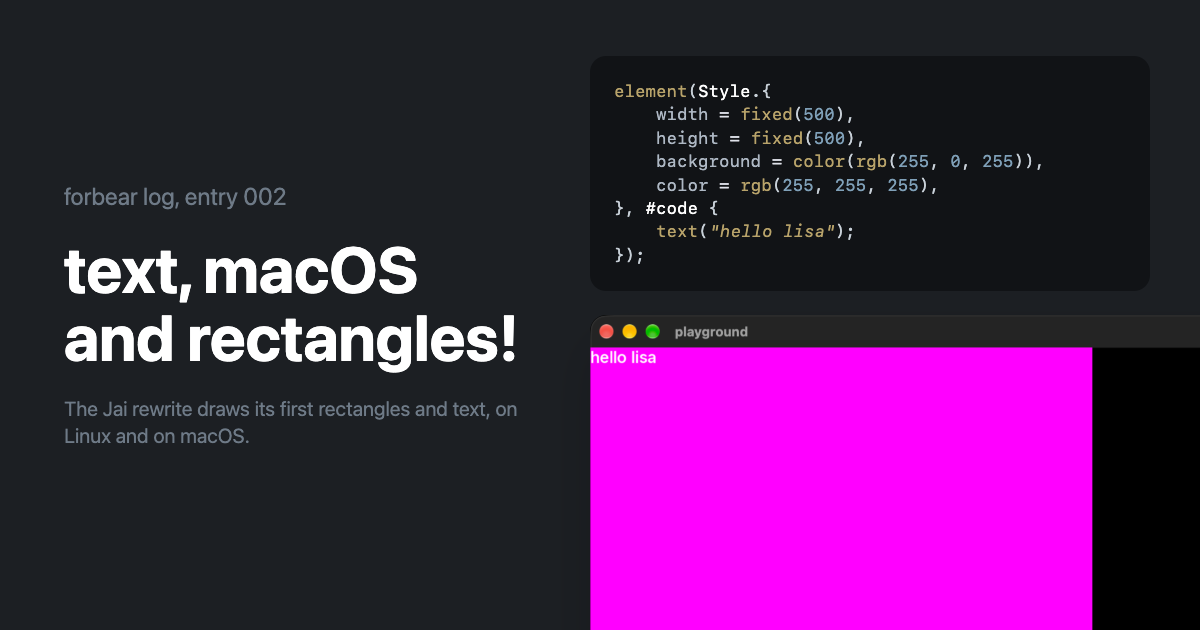
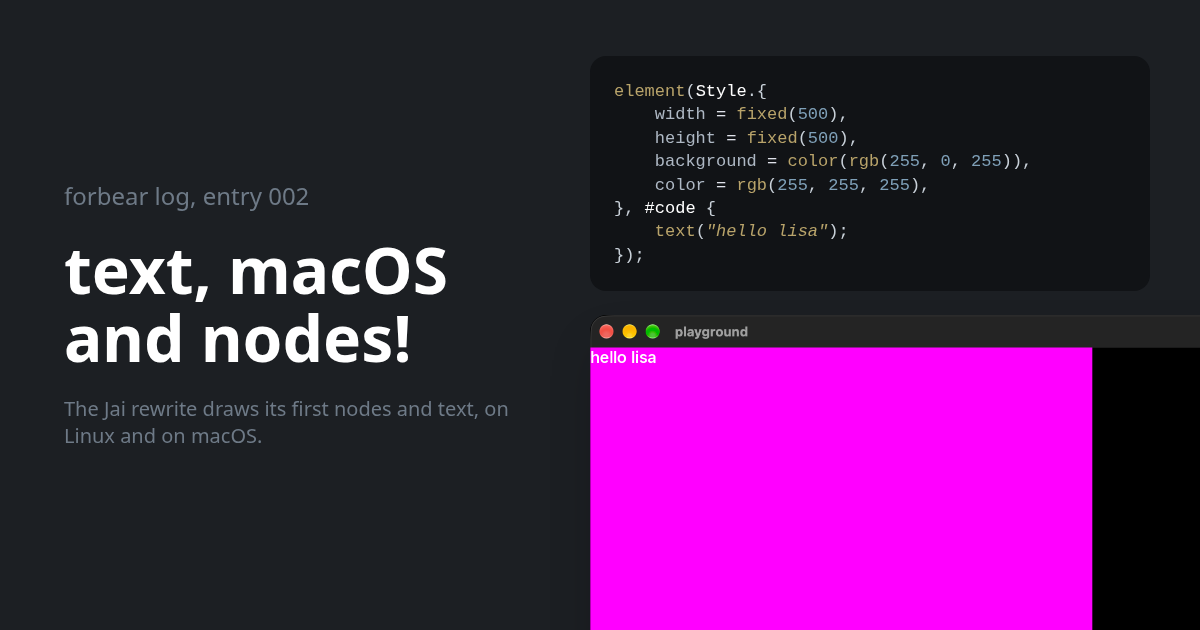
rename, fix typos, adjust some more things

diff --git a/www/log/002-text-macos-and-nodes.html b/www/log/002-text-macos-and-nodes.html
@@ -3,19 +3,19 @@
 <head>
 <meta charset="utf-8">
 <meta name="viewport" content="width=device-width, initial-scale=1">
-<title>forbear log, entry 002: text, macOS and rectangles!</title>
-<meta name="description" content="forbear in Jai draws its first rectangles and text, on Linux and on macOS.">
+<title>forbear log, entry 002: text, macOS and nodes!</title>
+<meta name="description" content="forbear in Jai draws its first nodes and text, on Linux and on macOS.">
 <meta property="og:type" content="article">
 <meta property="og:site_name" content="forbear">
-<meta property="og:url" content="https://www.forbear.dev/log/002-text-macos-and-rectangles.html">
-<meta property="og:title" content="text, macOS and rectangles!">
-<meta property="og:description" content="forbear in Jai draws its first rectangles and text, on Linux and on macOS.">
+<meta property="og:url" content="https://www.forbear.dev/log/002-text-macos-and-nodes.html">
+<meta property="og:title" content="text, macOS and nodes!">
+<meta property="og:description" content="forbear in Jai draws its first nodes and text, on Linux and on macOS.">
 <meta property="og:image" content="https://www.forbear.dev/assets/og-002.png">
 <meta property="og:image:width" content="1200">
 <meta property="og:image:height" content="630">
 <meta name="twitter:card" content="summary_large_image">
-<meta name="twitter:title" content="text, macOS and rectangles!">
-<meta name="twitter:description" content="forbear in Jai draws its first rectangles and text, on Linux and on macOS.">
+<meta name="twitter:title" content="text, macOS and nodes!">
+<meta name="twitter:description" content="forbear in Jai draws its first nodes and text, on Linux and on macOS.">
 <meta name="twitter:image" content="https://www.forbear.dev/assets/og-002.png">
 <script src="https://cdn.jsdelivr.net/npm/@tailwindcss/browser@4"></script>
 <style type="text/tailwindcss">
@@ -57,16 +57,16 @@ pre .hl-string-special-symbol { font-style: italic; color: #aeb8c4; }
 </head>
 <body>
 <main class="max-w-2xl mx-auto px-4 py-16">
-<h1>forbear log, entry 002: text, macOS and rectangles!</h1>
+<h1>forbear log, entry 002: text, macOS and nodes!</h1>
 
-<p>A week ago I wrote <a href="001-im-rewriting-everything-again.html">the first entry</a>, about rewriting forbear from Zig in Jai.</p>
+<p>A week ago I wrote <a href="001-im-rewriting-everything-again.html">the first entry</a>, about rewriting forbear from Zig in Jai. This week I've implemented node rendering, text rendering and some very basic macOS windowing.</p>
 
 <div class="flex gap-4 overflow-x-auto [scrollbar-width:none] my-6 mx-[calc(50%-50vw)] px-[calc(50vw-50%)]">
 <img src="../assets/2026-10-02-macos-window.png" alt="The forbear playground on macOS: a magenta rectangle with the text &quot;hello lisa&quot; in its top left corner" class="h-[30rem] w-auto max-w-none rounded-lg">
 <img src="../assets/2026-10-03-linux-window.png" alt="The forbear playground on Linux under Hyprland: the same magenta rectangle with &quot;hello lisa&quot; in its top left corner" class="h-[30rem] w-auto max-w-none rounded-lg">
 </div>
 
-<h2>Rectangles</h2>
+<h2>Nodes</h2>
 
 <p>This is the whole playground app right now:</p>
 
@@ -118,7 +118,7 @@ forbear<span class="hl-punctuation-delimiter">:</span> <span class="hl-type">For
 
 <p>The children are passed as <code>#code</code>, and <code>element</code> is a macro (<code>#expand</code>), so the body runs right where it's written, with no closures and no callbacks.</p>
 
-<p>Keying works through <code>#caller_location</code>. In jai, a function can take <code>location := #caller_location</code>, which gives me the file, line and column of the call. I hash those, and a few more things around the runtime context and that's the key:</p>
+<p>Keying works through <code>#caller_location</code>. In Jai, a function can take <code>location := #caller_location</code>, which gives me the file, line and column of the call. I hash those, and a few more things around the runtime context and that's the key:</p>
 
 <pre><code><span class="hl-statement">if</span> key<span class="hl-punctuation-delimiter">.</span>count <span class="hl-operator">&gt;</span> <span class="hl-number">0</span> <span class="hl-delimiter">{</span>
     node<span class="hl-punctuation-delimiter">.</span>key <span class="hl-operator">=</span> <span class="hl-function">fnv1a_hash</span><span class="hl-delimiter">(</span>key<span class="hl-punctuation-delimiter">.</span>data<span class="hl-punctuation-delimiter">,</span> key<span class="hl-punctuation-delimiter">.</span>count<span class="hl-delimiter">)</span><span class="hl-punctuation-delimiter">;</span>
@@ -133,9 +133,9 @@ forbear<span class="hl-punctuation-delimiter">:</span> <span class="hl-type">For
 <span class="hl-delimiter">}</span>
 node<span class="hl-punctuation-delimiter">.</span>key <span class="hl-operator">=</span> <span class="hl-function">fnv1a_hash</span><span class="hl-delimiter">(</span><span class="hl-statement">cast</span><span class="hl-delimiter">(</span><span class="hl-type">u64</span><span class="hl-delimiter">)</span> context<span class="hl-punctuation-delimiter">.</span>forbear<span class="hl-punctuation-delimiter">.</span>parent_stack<span class="hl-punctuation-delimiter">.</span>count<span class="hl-punctuation-delimiter">,</span> node<span class="hl-punctuation-delimiter">.</span>key<span class="hl-delimiter">)</span><span class="hl-punctuation-delimiter">;</span></code></pre>
 
-<p>This really makes me full much safer about the long-term for this code. But, it doesn't really improve in another pain point that I had with the previous API which was with components. In the ideal world, the user can just define a function and call the function for the component, but that can't work because, in a React-like API, state needs to be tied to the component somehow which means it needs to have some real place to be. The other point is that the caller location is not enough to distinguish between different instances of the same element on differente instances of a component.</p>
+<p>This really makes me feel much safer about the long-term for this code. But, it doesn't really improve in another pain point that I had with the previous API which was with components. In the ideal world, the user can just define a function and call the function for the component, but that can't work because, in a React-like API, state needs to be tied to the component somehow which means it needs to have some real place to be. The other point is that the caller location is not enough to distinguish between different instances of the same element on different instances of a component.</p>
 
-<p>Like the previous version, nodes live in one flat array. Each node points to its parent, children and siblings by index into the flat array. This is fully based on the idea from <a href="https://youtu.be/ShSGHb65f3M?si=rBw1AylZchgbExme">this awesome interview in Wookash's Podcast with Anton Mikhailov</a></p>
+<p>Like the previous version, nodes live in one flat array. Each node points to its parent, children and siblings by index into the flat array. This is fully based on the idea from <a href="https://youtu.be/ShSGHb65f3M?si=rBw1AylZchgbExme">this awesome interview in Wookash's Podcast with Anton Mikhailov</a>.</p>
 
 <h2>Text</h2>
 
@@ -143,15 +143,15 @@ node<span class="hl-punctuation-delimiter">.</span>key <span class="hl-operator"
 
 <p>Overall, the text architecture is the same as we had in the Zig version, with the exception of the runs paradigm that I started to implement there and felt was too complicated that I still need to figure out a better alternative for.</p>
 
-<p>There are two libraries involved: <a href="https://freetype.org/">freetype</a>, <a href="https://github.com/JimmyLefevre/kb">kb_text_shape</a>. kb_text_shape is a simpler replacement for harfbuzz, which is simpler and more sane to work with. Freetype loads in the font, and kb_text_shape (also checkout <a href="https://www.youtube.com/watch?v=7Tr0ty9-yeQ&t=8s">this</a> amazing talk from the creator of this library).</p>
+<p>There are two libraries involved: <a href="https://freetype.org/">FreeType</a>, <a href="https://github.com/JimmyLefevre/kb">kb_text_shape</a>. FreeType loads the font and rasterizes the glyphs, and kb_text_shape shapes the text, turning a string into the glyphs and positions to draw. kb_text_shape is a replacement for HarfBuzz that is much simpler and more sane to work with (also check out <a href="https://www.youtube.com/watch?v=7Tr0ty9-yeQ&t=8s">this</a> amazing talk from the creator of this library).</p>
 
 <p>The process is slightly involved. But, in simple terms:</p>
 
 <ol>
-  <li>load the font, and setup our libraries with it</li>
+  <li>load the font, and set up our libraries with it</li>
   <li>create our texture atlas on a single texture (a single texture is important because other methods aren't actually supported for older OpenGL versions)</li>
   <li>shape the incoming text with kb_text_shape and store it in our nodes</li>
-  <li>finally when rendering, gather the glyph instances that are going to be drawn looking up on the texture atlas from a hash table cache, or rasterized on the spot with freetype</li>
+  <li>finally when rendering, gather the glyph instances that are going to be drawn looking up on the texture atlas from a hash table cache, or rasterized on the spot with FreeType</li>
 </ol>
 
 <p>I think the most interesting part about this is that I found out that we can fill out a VBO with pretty much any data that's not actually vertex data and then we can just infer the vertex data when instance drawing. This simplified lots of what was my first try of using OpenGL in forbear.</p>
@@ -202,7 +202,7 @@ NSWindow<span class="hl-punctuation-delimiter">.</span>makeKeyAndOrderFront<span
 
 <p>In Zig, this would have been <code>objc_msgSend</code> casts by hand for every call. Though these exist in Jai, the bindings make it much easier.</p>
 
-<p>Now, I plan to start working on the beginnings of what will be forbear rendering from JSX..</p>
+<p>Now, I plan to start working on the beginnings of what will be forbear rendering from JSX.</p>
 
 <p><a href="https://github.com/gabrielmfern/forbear">https://github.com/gabrielmfern/forbear</a></p>
 </main>

diff --git a/www/og/002-text-macos-and-nodes.html b/www/og/002-text-macos-and-nodes.html
@@ -26,8 +26,8 @@ pre .hl-string { font-style: italic; color: #b8a36a; }
 <div id="og" class="relative w-[1200px] h-[630px] overflow-hidden bg-bg">
   <div class="absolute left-16 top-0 bottom-0 w-[500px] flex flex-col justify-center gap-6">
     <p class="text-2xl text-muted">forbear log, entry 002</p>
-    <h1 class="text-[64px] leading-[1.05] font-bold text-bright">text, macOS<br>and rectangles!</h1>
-    <p class="text-xl leading-snug text-muted">The Jai rewrite draws its first rectangles and text, on Linux and on macOS.</p>
+    <h1 class="text-[64px] leading-[1.05] font-bold text-bright">text, macOS<br>and nodes!</h1>
+    <p class="text-xl leading-snug text-muted">The Jai rewrite draws its first nodes and text, on Linux and on macOS.</p>
   </div>
   <div class="absolute left-[590px] top-[56px] flex flex-col gap-6">
     <pre class="m-0 w-[560px] bg-float text-fg text-[17px] leading-snug p-6 rounded-2xl"><code><span class="hl-function">element</span><span class="hl-delimiter">(</span><span class="hl-type">Style</span><span class="hl-punctuation-delimiter">.</span><span class="hl-delimiter">{</span>
